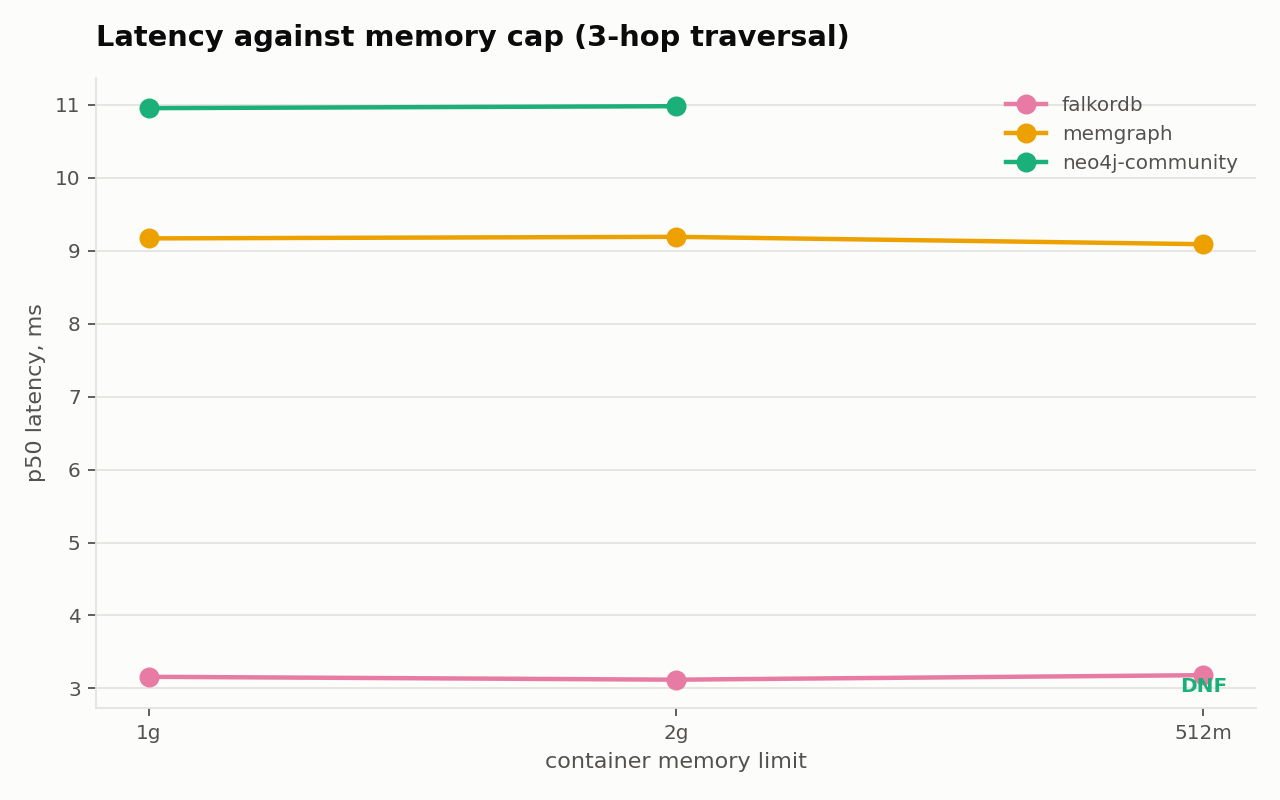
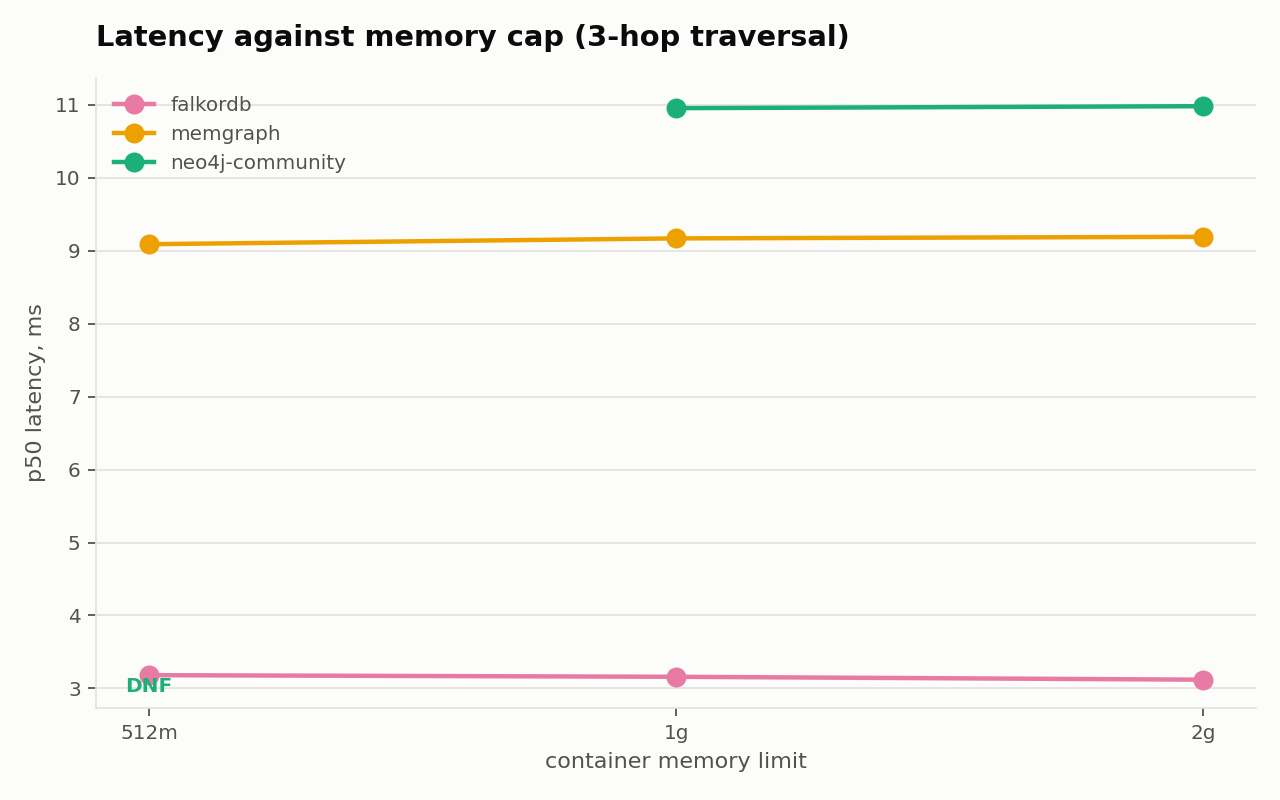
Order the memory sweep x-axis by size; publish full results and charts
The tier sort key was nonsense -- ('512' in t, '1g' in t) -- and the plotted
points came from file order while the axis labels came from that separate
sort, so the axis read 1g, 2g, 512m and the DNF marker sat under the wrong
tier. Tiers are now ordered by the size they denote and points are emitted in
that same order.

Results for all 12 targets, all 11 non-DNF graphs verified against the
manifest.

diff --git a/src/gbench/report/generate.py b/src/gbench/report/generate.py
@@ -332,14 +332,29 @@ def render_charts(records: list[Record], out_dir: Path) -> list[Path]:
 
     # Memory sweep: p50 of the three-hop traversal against the cap. A tier the
     # engine could not start at is a gap labelled DNF.
-    sweep: dict[str, list[tuple[str, float | None]]] = {}
-    tiers = sorted({r.tier for r in records if r.tier}, key=lambda t: ("512" in t, "1g" in t))
+    # Tiers are ordered by the size they denote, not lexically and not by the
+    # order results happened to be written. Both of those put 512m after 2g,
+    # and because the plotted points came from file order while the axis labels
+    # came from a separate sort, the DNF marker landed under the wrong tier.
+    def tier_bytes(tier: str) -> int:
+        value = tier.strip().lower()
+        return int(value[:-1]) * (1 << 30 if value.endswith("g") else 1 << 20)
+
+    tiers = sorted({r.tier for r in records if r.tier}, key=tier_bytes)
+    by_target: dict[str, dict[str, float | None]] = {}
     for record in records:
         if not record.tier:
             continue
         entry = record.workload("hop3") if not record.dnf else None
         value = (entry or {}).get("client", {}).get("p50_ms") if entry else None
-        sweep.setdefault(record.target_id, []).append((record.tier, value))
+        by_target.setdefault(record.target_id, {})[record.tier] = value
+
+    # One point per tier per target, in tier order, so the x positions the
+    # DNF markers are drawn at match the ones the lines are drawn at.
+    sweep: dict[str, list[tuple[str, float | None]]] = {
+        target: [(tier, values.get(tier)) for tier in tiers]
+        for target, values in by_target.items()
+    }
     if sweep and len(tiers) > 1:
         written.append(charts.memory_sweep(sweep, charts_dir / "memory-sweep.png"))
 
